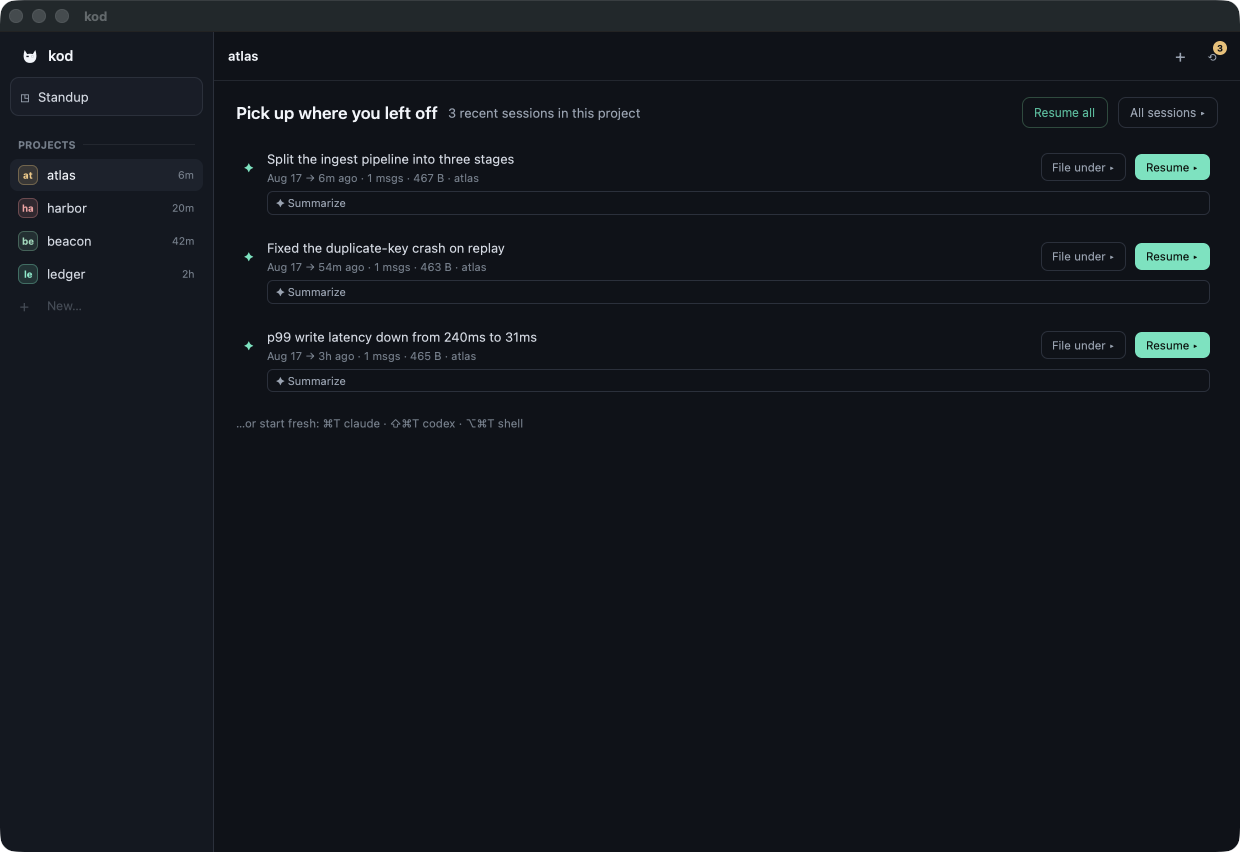
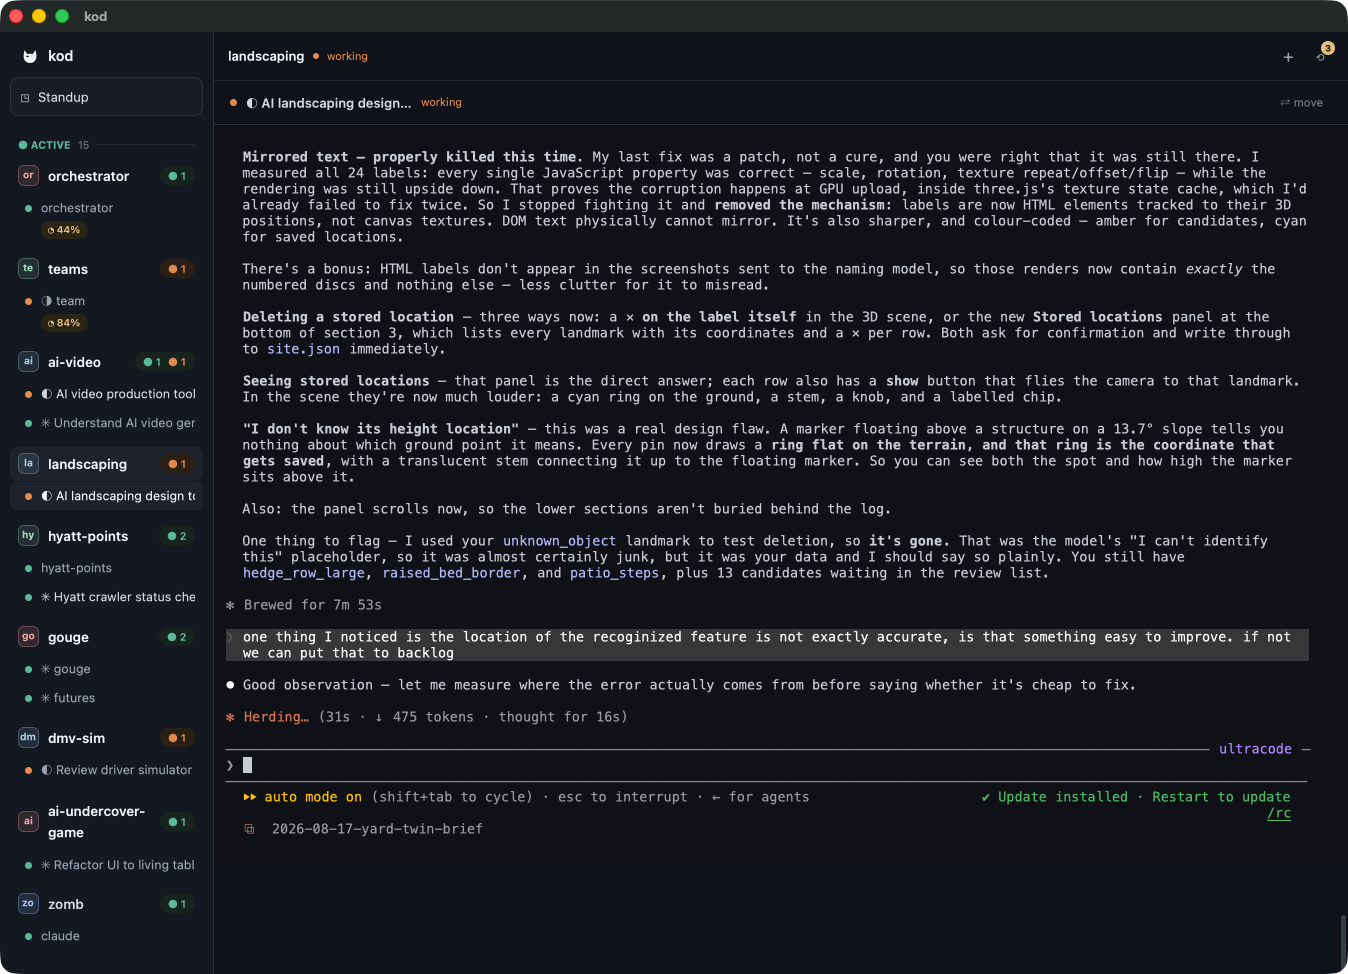
Show what Kod actually looks like when it is working
The site and README led with a screenshot of Standup reading "All quiet —
nothing needs you right now", over an empty page, above a line saying session
summaries were switched off. That was the flagship image for the feature the
whole product is built around, showing it doing nothing.

Both screenshots are now the real app: eighteen agents live across fifteen
projects, six projects that moved since the last check, and an agent mid-answer.
The alt text described the old images and is rewritten; the declared width and
height were the old dimensions, so every load shifted the layout.

Site structure follows. Standup leads, because it is the reason to want this and
was previously introduced third, as a card. The two sections after it made the
same argument twice and are now one. The hero's hand-drawn rail of four invented
sessions is gone — it asked a first-time reader to decode an illustration of a UI
before telling them what the UI does, and the real screenshot beneath it does
that job honestly.

The Claude and OpenAI marks appear on the CLIs Kod drives, served locally so the
page still makes no external request at runtime.

One stale claim removed: the alpha notice said text fields do not accept paste.
They have since 24ec4bb, which shipped in v0.2.0 — the site was advertising a
limitation that no longer existed.

Claude-Session: https://claude.ai/code/session_01SRh7Q78pAwz1kbfX4Zp79R

diff --git a/site/index.html b/site/index.html
@@ -57,7 +57,12 @@ header{padding:28px 0 0}
 .masthead{display:flex; align-items:center}
 
 /* ── hero ── */
-.hero{padding:76px 0 22px; display:grid; grid-template-columns:1.05fr .95fr; gap:56px; align-items:center}
+/* ONE column. The right-hand slot used to hold a hand-drawn mock of four
+     sessions, which asked a first-time reader to decode an illustration before
+     they knew what the product was — it showed the shape of a UI without saying
+     what the UI does. The real Standup screenshot, immediately below, does that
+     job and is true. */
+  .hero{padding:76px 0 26px}
 h1{
   font-size:clamp(34px,4.6vw,52px); line-height:1.08; letter-spacing:-.028em;
   color:var(--strong); margin:0 0 20px; font-weight:680; text-wrap:balance;
@@ -86,6 +91,24 @@ h1{
   margin-left:8px; font-weight:400;
 }
 .alpha{font-size:14px; color:var(--muted2); margin:16px 0 0; max-width:52ch; line-height:1.55}
+
+  /* "Works with" — the CLIs Kod drives. Wordmarks set in the page's own type
+     rather than reproduced logos: Claude and Codex are other people's trademarks,
+     and an approximation drawn from memory would be both visually wrong and a
+     misuse of them. If official SVGs are ever added to assets/, swap the spans
+     for imgs and keep the row. No CDN either way — this page makes no external
+     requests at runtime. */
+  .works{display:flex; align-items:center; gap:10px; flex-wrap:wrap; margin:18px 0 0}
+  .works .lead{font-size:13px; color:var(--muted2)}
+  .cli-chip{
+    display:inline-flex; align-items:center; gap:7px;
+    border:1px solid var(--hair); border-radius:8px; padding:5px 11px;
+    font-family:var(--mono); font-size:12.5px; color:var(--text); background:var(--card);
+  }
+  /* The official marks, served locally — the page still makes no external
+     requests at runtime. Both SVGs are fill:currentColor, so they take the
+     chip's own colour instead of fighting the palette. */
+  .cli-chip img{flex:none; opacity:.92}
 
 /* ── the rail: the product's whole argument, in markup ──
    Four sessions. Three quiet. One wants you. That is the app. */
@@ -148,7 +171,7 @@ footer{padding:44px 0 60px; border-top:1px solid var(--hair-soft); color:var(--m
 .kodkod{margin:0 0 16px; max-width:56ch; font-style:italic; color:var(--muted2)}
 
 @media (max-width:880px){
-  .hero{grid-template-columns:1fr; gap:38px; padding-top:52px}
+  .hero{padding-top:52px}
   .grid{grid-template-columns:1fr}
   .nav{display:none}
 }
@@ -160,8 +183,9 @@ footer{padding:44px 0 60px; border-top:1px solid var(--hair-soft); color:var(--m
   <header><div class="masthead">
     <a class="brand" href="/"><img src="assets/kod-mark.png" alt=""><span>Kod</span></a>
     <nav class="nav">
-      <a href="#what">How it helps</a>
-      <a href="#install">Install</a>
+        <a href="#standup">Standup</a>
+        <a href="#what">How it helps</a>
+        <a href="#install">Install</a>
       <a href="https://github.com/FelisAI/kod">Source</a>
     </nav>
   </div></header>
@@ -178,63 +202,69 @@ footer{padding:44px 0 60px; border-top:1px solid var(--hair-soft); color:var(--m
         <a class="btn btn-primary" href="https://github.com/FelisAI/kod/releases/latest/download/Kod.dmg">Download for macOS</a>
         <a class="btn btn-ghost" href="https://github.com/FelisAI/kod">View source on GitHub</a>
       </div>
+      <p class="works">
+        <span class="lead">Drives</span>
+        <span class="cli-chip"><img src="assets/claude.svg" alt="" width="15" height="15">claude&nbsp;code</span>
+        <span class="cli-chip"><img src="assets/openai.svg" alt="" width="15" height="15">codex</span>
+        <span class="lead">— and plain shells, side by side.</span>
+      </p>
       <p class="req">
         <span class="tag">Early alpha</span>
         macOS 13+ · Apple silicon &amp; Intel · signed and notarized · Apache-2.0
       </p>
       <p class="alpha">
         Kod is early. It is built and used daily by one person, and rough edges are
-        real: text fields do not accept paste yet, projects cannot be deleted, and
-        the map and memory surfaces are compiled out by default. If that is
+          real: projects cannot be renamed or deleted, and the map and memory
+          surfaces are compiled out by default. If that is
         interesting rather than disqualifying, the
         <a href="https://github.com/FelisAI/kod/issues">issues</a> are the honest
         list.
       </p>
     </div>
-
-    <div class="rail" aria-label="Example: four sessions, one needs you">
-      <div class="rail-h">Sessions</div>
-      <div class="row work">
-        <span class="dot"></span><span class="proj">atlas</span><span class="cli">claude</span>
-        <span class="state">working</span>
-      </div>
-      <div class="row needs">
-        <span class="dot"></span><span class="proj">harbor</span><span class="cli">claude</span>
-        <span class="state">needs you</span>
-      </div>
-      <div class="row quiet">
-        <span class="dot"></span><span class="proj">ledger</span><span class="cli">codex</span>
-        <span class="state">idle · 12m</span>
-      </div>
-      <div class="row quiet">
-        <span class="dot"></span><span class="proj">beacon</span><span class="cli">shell</span>
-        <span class="state">idle · 2h</span>
-      </div>
-    </div>
-  </div>
 </div>
 
 <div class="wrap">
+  <section id="standup">
+    <h2>Standup: you shouldn't have to reread every transcript</h2>
+    <p class="sub">
+      Standup is the reason Kod exists. Every session writes down what it got done as
+      it goes idle, so coming back to a morning's work is reading a list — not opening
+      each session in turn to remember where it was. What needs you sits at the top;
+      what merely happened sits under it; what is still running stays out of the way.
+    </p>
+    <figure>
+      <img src="assets/standup.png" width="1348" height="974"
+             alt="Kod's Standup screen, headed '18 agents live — 4 working, 14 idle'. A 'What happened' section lists six projects that moved since the last check, each with a one-line summary. Below it, a live strip and a timeline of the day's activity, every entry carrying the next action to take.">
+        <figcaption>Every project that moved while you were away, one line each — and what to do next about it.</figcaption>
+    </figure>
+    <p class="note" style="max-width:64ch">
+      It also tracks <em>when you last looked</em>, so "what happened" means what
+      happened since you last read it — not an undifferentiated wall that starts again
+      from the beginning every time you open the app.
+    </p>
+  </section>
+
   <section id="what">
     <h2>You shouldn't have to track what's running</h2>
     <p class="sub">
-      Which of your agents is working, which is idle, which hit a usage limit, which
-      has been sitting on a question for twenty minutes. That is state a machine
-      should hold, not a person. Kod keeps it across every project and puts whatever
-      is blocked at the top.
+      Which agent is working, which is idle, which hit a usage limit, which has been
+      sitting on a question for twenty minutes. That is state a machine should hold, not
+      a person. Kod keeps it across every project, notifies you the moment one is
+      genuinely blocked, and stays quiet otherwise — a count on the Dock icon and
+      nothing more. A background daemon owns the sessions, so closing the window does
+      not kill the work.
     </p>
     <figure>
-      <img src="assets/workspace.png" width="1240" height="852"
-           alt="Kod's workspace: a rail of projects down the left showing when each was last touched, and a list of recent sessions in the selected project, each with what it last did and a Resume button.">
-      <figcaption>Pick up where you left off — every recent session in a project, each with what it last did, so returning to a project costs a glance instead of a re-read.</figcaption>
+      <img src="assets/workspace.png" width="1348" height="974"
+             alt="Kod's workspace. A rail down the left lists fifteen active projects — orchestrator, teams, ai-video, landscaping, hyatt-points, gouge and more — each with a count of its live sessions, one showing a usage-limit chip at 44 percent. The main pane holds a live claude session, mid-answer, noting it has been working for 7 minutes 53 seconds.">
+        <figcaption>Every project and every agent in one window, each showing what is live and what is near a usage limit — so the fleet is a glance rather than a hunt.</figcaption>
     </figure>
-
     <div class="grid">
       <div class="card">
-        <h3>Standup</h3>
-        <p>One reactive home across every project — and idle-time summaries of what each
-        session got done, so catching up is reading four lines instead of scrolling four
-        transcripts.</p>
+        <h3>Real terminals</h3>
+        <p>Full-fidelity PTYs, not a chat box over an API — the agent's own TUI, colour and
+        all. Drag a file onto one to paste its path, or paste a screenshot and Kod hands
+        the agent a file it can actually read.</p>
       </div>
       <div class="card">
         <h3>Profiles</h3>
@@ -247,23 +277,7 @@ footer{padding:44px 0 60px; border-top:1px solid var(--hair-soft); color:var(--m
         track of, are findable and resumable — losing one stops meaning losing its
         context.</p>
       </div>
-    </div>
-  </section>
-
-  <section>
-    <h2>You shouldn't have to watch for it</h2>
-    <p class="sub">
-      Polling twelve tabs to see if anything needs you is the tax that makes running
-      several agents exhausting. Kod pulls you back instead: a notification the moment
-      an agent is genuinely blocked, and a count on the Dock icon the rest of the
-      time — ambient, never interrupting. A background daemon owns the sessions, so
-      closing the window doesn't kill the work.
-    </p>
-    <figure>
-      <img src="assets/standup.png" width="1240" height="852"
-           alt="Kod's Standup screen reading 'All quiet — nothing needs you right now', above today's activity timeline, with the project rail on the left.">
-      <figcaption>All quiet is a first-class state — and the one you want most of the time. Kod is loud only when something is genuinely blocked.</figcaption>
-    </figure>
+      </div>
   </section>
 
   <section id="next">

diff --git a/README.md b/README.md
@@ -13,7 +13,7 @@ Built in Rust on [GPUI](https://github.com/zed-industries/zed).
 
 <p align="center">
   <img src="app/assets/screenshots/workspace.png" width="900"
-       alt="Kod's session workspace. A project rail on the left lists atlas, harbor, beacon and ledger with how long ago each was touched. The main pane, 'Pick up where you left off', lists three recent atlas sessions — each showing what it last did and a Resume button.">
+       alt="Kod's session workspace. A project rail down the left lists fifteen active projects — orchestrator, teams, ai-video, landscaping, hyatt-points, gouge and more — each with a count of its live sessions, and one showing a rate-limit chip at 44 percent. The main pane holds a live claude session in the landscaping project, mid-answer, with a note that it has been working for 7 minutes 53 seconds.">
 </p>
 
 ---
@@ -38,7 +38,7 @@ Built in Rust on [GPUI](https://github.com/zed-industries/zed).
 
 <p align="center">
   <img src="app/assets/screenshots/standup.png" width="900"
-       alt="Kod's Standup screen, reading 'All quiet — nothing needs you right now', above a timeline of today's activity, with the same project rail down the left side.">
+       alt="Kod's Standup screen, headed '18 agents live — 4 working, 14 idle'. A 'What happened' section lists six projects that moved since the last check, each with a one-line summary. Below it, a live strip and a timeline of today's activity, each entry carrying the next action to take.">
 </p>
 
 ## Requirements
